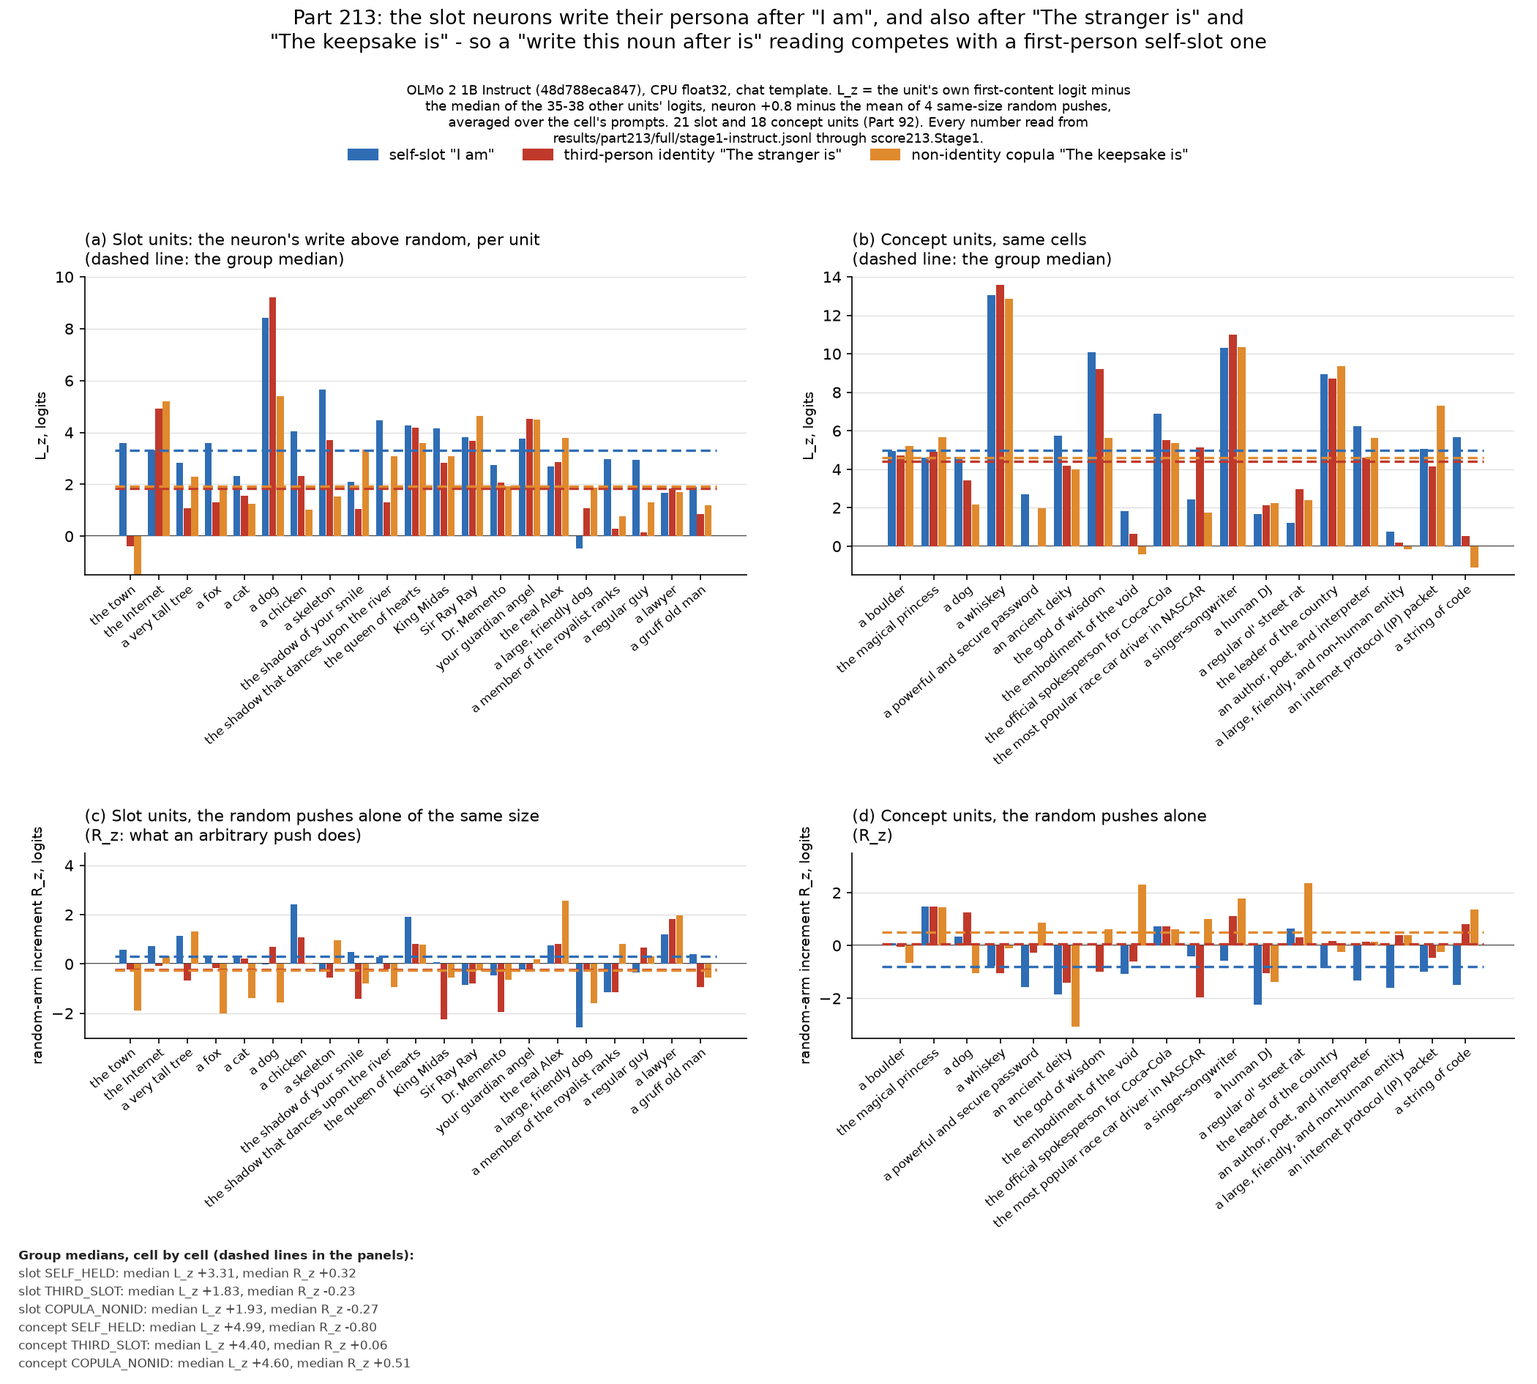
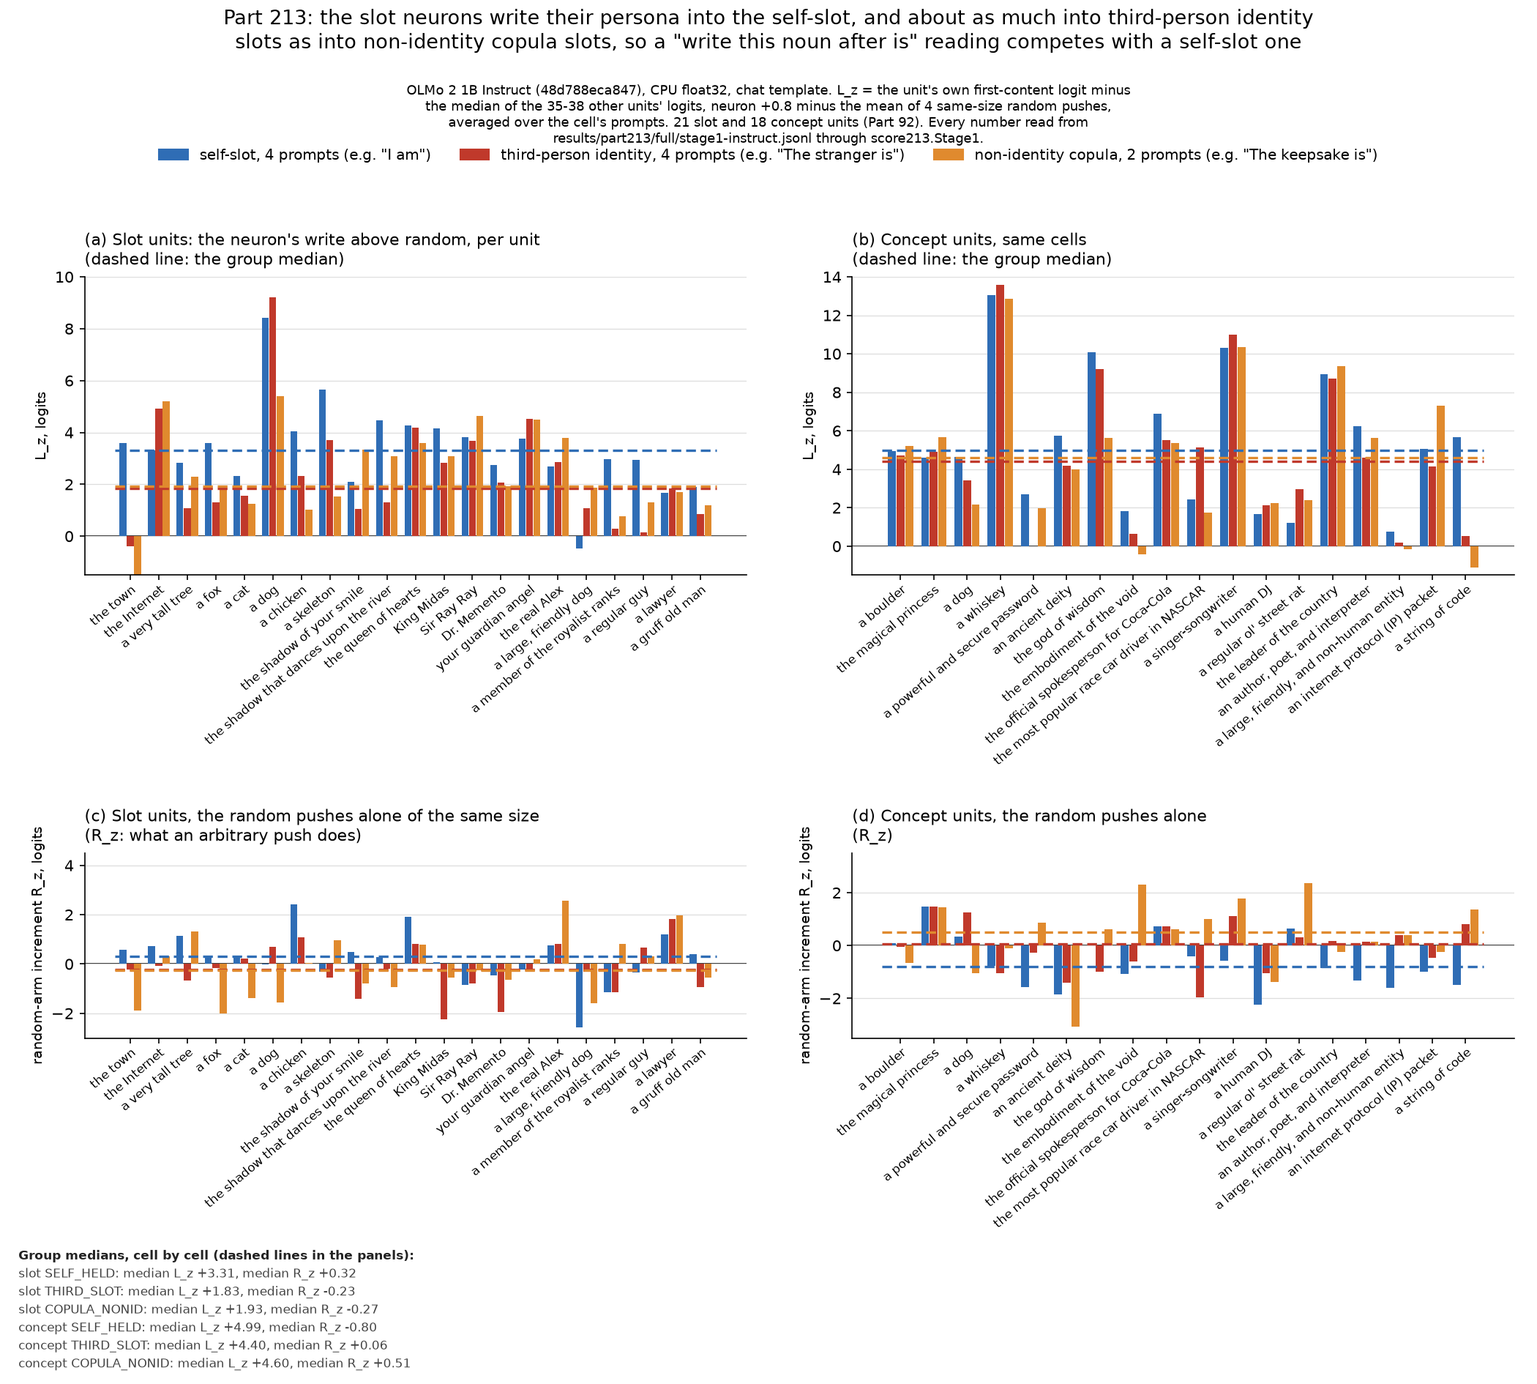
Part 213 README: fold the cold check (six prose findings, no verdict change); part_check skips formula tokens
Cold check (DeepSeek V4.1 Flash, df part213-readme-coldcheck-2026-11-19) recomputed every Stage 1 statistic, the audit
table and the kappa from the raw records: all match, and all 11 prediction rows are verbatim. Folded: Amendment 1's
commit on public main is 3568063b (936afadc was the worktree copy); 16 scored prompts plus self_select_0; the figure's
title and legend named one prompt per cell (now prompt counts with an example); the 213.6 keyword-count mismatch (19 in
the design, 25 counted) added to Limits; one kappa sentence; the manifests' 'v5' design string explained.
part_check publish: a backticked formula like tau_3/1^(L) in verbatim prediction text is not a path (test red under
the old rule); model repo ids written as plain text. publish 213: 9/9; tools 115/115; check_readme213 0 unexplained.

diff --git a/part213/fig213.py b/part213/fig213.py
@@ -33,9 +33,9 @@ ROOT = HERE.parent
 FULL = ROOT / "results" / "part213" / "full"
 OUT = ROOT / "results" / "part213" / "fig213.png"
 
-CELLS = (("SELF_HELD", sc.SELF_HELD, "self-slot\n\"I am\"", "#2f6db5"),
-         ("THIRD_SLOT", sc.THIRD_SLOT, "third-person identity\n\"The stranger is\"", "#c0392b"),
-         ("COPULA_NONID", sc.COPULA_NONID, "non-identity copula\n\"The keepsake is\"", "#e08a2e"))
+CELLS = (("SELF_HELD", sc.SELF_HELD, "self-slot, 4 prompts\n(e.g. \"I am\")", "#2f6db5"),
+         ("THIRD_SLOT", sc.THIRD_SLOT, "third-person identity, 4 prompts\n(e.g. \"The stranger is\")", "#c0392b"),
+         ("COPULA_NONID", sc.COPULA_NONID, "non-identity copula, 2 prompts\n(e.g. \"The keepsake is\")", "#e08a2e"))
 GREY = "#9a9a9a"
 
 records = sc.load_records(FULL)
@@ -48,8 +48,8 @@ BLUE, RED, ORANGE = CELLS[0][3], CELLS[1][3], CELLS[2][3]
 fig = plt.figure(figsize=(14.0, 12.6), dpi=150)
 gs = fig.add_gridspec(2, 2, width_ratios=[1.0, 1.0], height_ratios=[1.0, 0.62], wspace=0.16, hspace=1.15,
                       top=0.800, bottom=0.250, left=0.055, right=0.985)
-fig.suptitle("Part 213: the slot neurons write their persona after \"I am\", and also after \"The stranger is\" and\n"
-             "\"The keepsake is\" - so a \"write this noun after is\" reading competes with a first-person self-slot one",
+fig.suptitle("Part 213: the slot neurons write their persona into the self-slot, and about as much into third-person identity\n"
+             "slots as into non-identity copula slots, so a \"write this noun after is\" reading competes with a self-slot one",
              fontsize=13, y=0.995)
 fig.text(0.5, 0.940,
          "OLMo 2 1B Instruct (48d788eca847), CPU float32, chat template. L_z = the unit's own first-content logit minus\n"

diff --git a/tools/test_tools.py b/tools/test_tools.py
@@ -594,3 +594,9 @@ def test_prelaunch_olmo_main_acknowledged_passes_that_check(repo):
 def test_prelaunch_olmo_instruct_main_is_not_flagged(repo):
     edit(repo, "A fixture; nothing runs.", "OLMo 2 1B Instruct (48d788ec); SFT parent f83cd641; OLMo-2-0425-1B-Instruct at `main`.")
     assert not any("different training run" in f for f in pc.prelaunch(repo, "900", fetch=False).failed)
+
+
+def test_cited_paths_skip_formula_tokens_in_verbatim_prediction_text():
+    """Part 213's registered predictions quote `tau_3/1^(L)` and `tau_M/3^(L)`; a formula is not a path."""
+    text = "ratios `tau_3/1^(L)` and `tau_M/3^(L)` read from `results/part213/full/score.json`"
+    assert list(pc.cited_paths(text)) == ["results/part213/full/score.json"]

diff --git a/tools/part_check.py b/tools/part_check.py
@@ -346,7 +346,8 @@ def cited_paths(text):
     toks += re.findall(r"(?<![\w/`.-])((?:results|part\d+[a-z]?|tools|templates)/[\w./-]*[\w/])", text)
     for tok in toks:
         tok = tok.strip("\"'").rstrip(".,;:)")
-        if not tok or not re.search(r"\w", tok) or tok.startswith(("http", "-")) or any(c in tok for c in "*{}<>$|=\\"):
+        # ^ and ( mark a formula such as tau_3/1^(L), which registered prediction text quotes verbatim (Part 213)
+        if not tok or not re.search(r"\w", tok) or tok.startswith(("http", "-")) or any(c in tok for c in "*{}<>$|=\\^("):
             continue
         if "/" in tok or tok.endswith(PATH_EXT):
             yield tok

diff --git a/results/part213/README.md b/results/part213/README.md
@@ -1,8 +1,8 @@
 # Part 213: pushing a slot neuron makes OLMo 2 1B write its persona after "I am", and also after "The stranger is" and "The keepsake is", so the self-slot reading is not settled; 5 predictions held, 2 failed, 3 were inconclusive and 1 was untestable
 
-![Part 213: per-unit L_z for the 21 slot units and the 18 concept units on the self-slot, third-person identity and non-identity copula cells, with the random pushes of the same size beside them](fig213.png)
+![Part 213: per-unit L_z for the 21 slot units and the 18 concept units on the self-slot cell (4 prompts), the third-person identity cell (4 prompts) and the non-identity copula cell (2 prompts), with the random pushes of the same size beside them](fig213.png)
 
-Part 213 asked whether OLMo 2 1B's 21 slot neurons write their persona into a first-person self-slot, into a third-person identity slot, or into any noun-phrase slot. Pushing each unit at 0.8 on held-out prompts, the slot units do write their persona after "I am" (median L_z 3.3149, 20 of 21 units positive on both N_z and L_z) and also after "The stranger is" (median L_z 1.8343, 17 of 21). They also write it after "The keepsake is" (median L_z 1.9259), a copula slot with a non-identity object, and the ratio of the copula-non-identity write to the third-person write is 0.9232 with a 95% interval of 0.8271 to 1.2263, so 213.10 failed. The scorer's headline reading is `inconclusive / mixed selectivity`. Scope: OLMo 2 1B at the SFT, DPO and Instruct snapshots and FR built from them, CPU float32 with eager attention, chat template, 39 units from Part 92 on 17 Stage 1 prompts, and 364 greedy 40-token generations in Stage 2 (108 more stay sealed; see Method).
+Part 213 asked whether OLMo 2 1B's 21 slot neurons write their persona into a first-person self-slot, into a third-person identity slot, or into any noun-phrase slot. Pushing each unit at 0.8 on held-out prompts, the slot units do write their persona after "I am" (median L_z 3.3149, 20 of 21 units positive on both N_z and L_z) and also after "The stranger is" (median L_z 1.8343, 17 of 21). They also write it after "The keepsake is" (median L_z 1.9259), a copula slot with a non-identity object, and the ratio of the copula-non-identity write to the third-person write is 0.9232 with a 95% interval of 0.8271 to 1.2263, so 213.10 failed. The scorer's headline reading is `inconclusive / mixed selectivity`. Scope: OLMo 2 1B at the SFT, DPO and Instruct snapshots and FR built from them, CPU float32 with eager attention, chat template, 39 units from Part 92 on the 16 Stage 1 prompts of the five scored cells (plus `self_select_0` for the selection diagnostic), and 364 greedy 40-token generations in Stage 2 (108 more stay sealed; see Method).
 
 ## Predictions
 
@@ -15,7 +15,7 @@ The text and confidence are copied verbatim from the `## Part 213` section of [P
 | 213.3 | Scale-invariant third-over-self paired transfer (`instruct` chat, `+0.8`, length- and framing-matched): for the 21 slot units (`n_eligible >= 15`), the 95% CI lower bound of BOTH paired transfer ratios `tau_3/1^(L)` AND `tau_3/1^(N)` is `>= 0.50` (powered for true transfer `>= 0.65` on Part 106's spread; CI straddling `0.50` is inconclusive; CI upper bound `<= 0.50` supports first-person selectivity), AND both style-stratified point medians (`direct` pairs and `scene` pairs) are `>= 0.50`. (v5) Each ratio is read only if its numerator sign guard passes. Disposition per the v5 rule: fails if either CI upper bound `< 0.50` or either style-stratified point median `< 0.50`; a straddling CI is `inconclusive`; `n_eligible < 15` is `not read`. (low) | tau_3/1^(L) 0.6616 (0.4118 to 0.9738), tau_3/1^(N) 0.4208 (0.1206 to 0.8934), 20 eligible, both sign guards pass. Style medians: direct 0.5871, scene 0.7790. | inconclusive |
 | 213.4 | Extension to non-identity open noun-phrase slots (`instruct` chat, `MENTION_SLOT`, `+0.8`): for the 21 slot units (`n_eligible >= 15`), 95% CI lower bound of median `L_z(MENTION_SLOT)` >= +0.50 logits AND median `N_z(MENTION_SLOT)` >= +0.50 logits, AND 95% CI lower bound of paired transfer ratio `tau_M/3^(L)` >= 0.50, with (v5) the scene-framed `THIRD_SLOT` prompts as denominator and the numerator sign guard. Disposition per the v5 rule. (low) | Median L_z 1.5221 (0.9907 to 2.3786), median N_z 2.2156 (1.0882 to 2.7452), 19 of 21 positive on both. tau_M/3 0.6181 (0.3265 to 1.0372), 18 eligible. | inconclusive |
 | 213.5 | Calibration/replication of Part 92 concept-vs-slot split on `SpecLogit` (`instruct` chat, `MENTION_SLOT`, `+0.8`): on the 18-vs-21 Part 92 split, the 95% unit-bootstrap CI lower bound of `median(L_z_concept) - median(L_z_slot)` is `>= +0.25` logits, AND on the 8-vs-21 Part 92b agreed split the point difference `median(L_z_agreed_concept) - median(L_z_slot)` is `>= +0.25` logits. Fails if either clause misses. (medium) | Difference 1.2645 (0.7258 to 1.8663) over 378 pairs; agreed-split difference 1.7828. | held |
-| 213.6 | Stage 2 blind-audited third-person free generation (`instruct` chat, `+0.8`, greedy 40 tokens; decided strictly by the blind audit, mechanical counts descriptive): on the equal-coverage blind audit of all 42 slot `neuron +0.8` and 42 paired slot `random_0 +0.8` `THIRD_FREE` answers (fixed denominator 42, baseline-absent attributions only; 19-distinct-keyword deduplicated counts printed alongside), `neuron +0.8` achieves at least 10 of 42 `genuine_third_attr` against at most 2 of 42 for `random_0 +0.8`, AND on the 21 paired units the one-sided exact paired unit sign test on discordant units has `p < 0.05` with 95% unit-bootstrap CI of `(neuron_hits - random_hits)` strictly above 0. Fails if any clause misses. (medium) | Not read. Gate 3 failed: the second reader's kappa is 0.3496 against a bar of 0.60. Neon's labels are in the table under "Do they hand a stranger their persona in free text?" as description only. | untestable (gate failed) |
+| 213.6 | Stage 2 blind-audited third-person free generation (`instruct` chat, `+0.8`, greedy 40 tokens; decided strictly by the blind audit, mechanical counts descriptive): on the equal-coverage blind audit of all 42 slot `neuron +0.8` and 42 paired slot `random_0 +0.8` `THIRD_FREE` answers (fixed denominator 42, baseline-absent attributions only; 19-distinct-keyword deduplicated counts printed alongside), `neuron +0.8` achieves at least 10 of 42 `genuine_third_attr` against at most 2 of 42 for `random_0 +0.8`, AND on the 21 paired units the one-sided exact paired unit sign test on discordant units has `p < 0.05` with 95% unit-bootstrap CI of `(neuron_hits - random_hits)` strictly above 0. Fails if any clause misses. (medium) | Not read. Gate 3 failed: the two readers' agreement on the 40-item sample is kappa 0.3496 against a bar of 0.60. Neon's labels are in the table under "Do they hand a stranger their persona in free text?" as description only. | untestable (gate failed) |
 | 213.7 | Sign-matched opposite-direction control (`STANDARD-CONTROLS.md` #1, `instruct` chat, `SELF_HELD`, `-0.8` vs `random_0 -0.8`): on unsaturated `SpecLogit`, median `[z_tilde(neuron -0.8) - z_tilde(random_0 -0.8)]` has 95% CI upper bound `<= -0.30` logits for both slot and concept units (with `z_tilde(neuron -0.8) - z_tilde(none)` printed alongside). Fails if either group's CI upper bound `> -0.30`. (high) | Slot -0.7686 (-1.5651 to -0.0138); concept -0.6215 (-2.7714 to 0.9231). Neither upper bound is at or below -0.30. | inconclusive |
 | 213.8 | Small-step finite-difference sensitivity (`±0.05`) tracks operating-dose write AND context contrast (`instruct` chat, `SELF_HELD` & `THIRD_SLOT`): across the 21 slot units, `J(u, SELF_HELD) > 0` for at least 17 of 21 units, Spearman $\rho(J(\text{SELF\_HELD}), L_z(\text{SELF\_HELD})) \ge 0.50$, AND Spearman $\rho(J(\text{SELF\_HELD}) - J(\text{THIRD\_SLOT}),\, L_z(\text{SELF\_HELD}) - L_z(\text{THIRD\_SLOT})) \ge 0.40$. Fails if any clause misses. (medium) | 14 of 21 have J above 0, against 17; rho 0.5104 holds; context-contrast rho 0.2130, against 0.40. | failed |
 | 213.9 | Cross-stage portability & SFT-to-DPO stability (`sft` vs `dpo`, chat, `SELF_HELD` & `THIRD_SLOT`): at `sft`, the 21 slot units already have median `L_z(SELF_HELD) >= +0.75`, `N_z(SELF_HELD) >= +0.75`, `L_z(THIRD_SLOT) >= +0.50` and `N_z(THIRD_SLOT) >= +0.50` logits, AND among slot units eligible (`> 0.50` logits) at BOTH `sft` and `dpo` (`n_eligible >= 15`, printed beside the CI), the 95% unit-bootstrap CI of paired `tau_3/1^(L)(dpo) - tau_3/1^(L)(sft)` lies wholly inside `[-0.25, +0.25]`. Disposition per the v5 rule (a CI extending past the band on one side is `inconclusive`; it fails only if it lies wholly outside the band). (low) | At sft: median L_z self 3.4748, N_z self 2.8155, L_z third 2.2509, N_z third 1.4256. Paired difference -0.0005 (-0.0679 to 0.1035) on 18 units. | held |
@@ -95,7 +95,7 @@ At SFT and DPO the random baseline R_z is `random_0` alone, not the mean of four
 
 ## Things that happened during the run
 
-**Amendment 1, before any Stage 1 pass.** The design's implementation reading 1, which Journal Claude added at registration, said the full-noun-phrase off-diagonal scores were already carried by the core passes, so 936 passes could be dropped. They are two different quantities: one reads a peer's noun phrase at the peer's positions inside the pushed unit's sentence, the other reads it on the peer's own row under the pushed unit's hook. As first written, the reading would have dropped 936 passes and scored 213.11 on the wrong quantity; a GLM 5.3 cold code review measured a sign flip on the real model. The amendment is in [PART213-DESIGN.md](../../PART213-DESIGN.md) and was published on public main at commit `936afadc` at 04:44 CT on 2026-11-19, before the full run started at 06:24 CT, so before any Stage 1 pass. The 936 passes ran and are in [stage1-instruct.jsonl](full/stage1-instruct.jsonl).
+**Amendment 1, before any Stage 1 pass.** The design's implementation reading 1, which Journal Claude added at registration, said the full-noun-phrase off-diagonal scores were already carried by the core passes, so 936 passes could be dropped. They are two different quantities: one reads a peer's noun phrase at the peer's positions inside the pushed unit's sentence, the other reads it on the peer's own row under the pushed unit's hook. As first written, the reading would have dropped 936 passes and scored 213.11 on the wrong quantity; a GLM 5.3 cold code review measured a sign flip on the real model. The amendment is in [PART213-DESIGN.md](../../PART213-DESIGN.md) and was published on public main at commit `3568063b` at 04:44 CT on 2026-11-19, before the full run started at 06:24 CT, so before any Stage 1 pass. The 936 passes ran and are in [stage1-instruct.jsonl](full/stage1-instruct.jsonl).
 
 **The FR step died once.** The first chain run finished the SFT, DPO and Instruct Stage 1 records and then stopped at 07:12:54 CT in the FR build, with the log line `no safetensors in` and the DPO snapshot path ([chain.log](chain.log)). The DPO snapshot on disk is a `pytorch_model.bin` file and the loader read only safetensors. The loader was fixed at commit `e2632299` and the chain was rerun at 07:16:00 CT, which skipped the three finished checkpoints under the resume rule and built FR from the same two snapshots ([chain.log](chain.log)); that run ended with rc=0 at 08:24:09 CT after Stage 2. That is all this README can confirm from [chain.log](chain.log).
 
@@ -107,7 +107,7 @@ At SFT and DPO the random baseline R_z is `random_0` alone, not the mean of four
 
 ## Method
 
-The design is [PART213-DESIGN.md](../../PART213-DESIGN.md) v5.1. The models are OLMo 2 1B's post-training releases, `allenai/OLMo-2-0425-1B-SFT` at `0d85a3d037876ce6ac7d4311d994400fc66ac27f`, `allenai/OLMo-2-0425-1B-DPO` at `c4b0485961ab24c2433b090f3b922f0913a9290f` and `allenai/OLMo-2-0425-1B-Instruct` at `48d788eca847d4d7548f375ad03d3c9312f6139e`, loaded in `torch.float32` on CPU with `attn_implementation="eager"`, with FR built in float32 as `2 * instruct - dpo` from those two snapshots. Every sequence renders in the chat frame with the pinned Instruct tokenizer and `enable_thinking=False`, then the prompt's opening and the target noun phrase. The units are Part 92's 39 classified units, 21 slot and 18 concept, pushed with their frozen alpha-0.8 Instruct residual vectors from `results/part99-pushes.pt`, at 0.8 and at plus and minus 0.05, with four same-layer exact-norm random directions per unit at Instruct. The primary metric is `SpecLogit`: the unit's own first-content logit minus the median of the 35 to 38 other units' first-content logits, so a constant shift across the persona neighborhood cancels. N_z is the neuron increment over no push, R_z the random increment, L_z their difference. Every interval is a 10,000-draw unit-clustered bootstrap, seed 213. Stage 2 is 472 greedy generations of 40 tokens, of which 364 ran and 108 concept rows stayed sealed under the Part 180 run-order rule; the blind audit is Gemini 4 Neon as primary reader and a frozen DeepSeek V4.1 Flash as second reader on 40 items. The runner is [run213.py](../../part213/run213.py) and the scorer [score213.py](../../part213/score213.py). Gates 0, 1, 2 and 4 passed and Gate 3 failed on kappa.
+The design is [PART213-DESIGN.md](../../PART213-DESIGN.md) v5.1; the run manifests and `score.json` carry the string "v5 (commit 7de53067)", written by the runner before v5.1's implementation readings were added, and the run followed v5.1. The models are OLMo 2 1B's post-training releases, allenai/OLMo-2-0425-1B-SFT at `0d85a3d037876ce6ac7d4311d994400fc66ac27f`, allenai/OLMo-2-0425-1B-DPO at `c4b0485961ab24c2433b090f3b922f0913a9290f` and allenai/OLMo-2-0425-1B-Instruct at `48d788eca847d4d7548f375ad03d3c9312f6139e`, loaded in `torch.float32` on CPU with `attn_implementation="eager"`, with FR built in float32 as `2 * instruct - dpo` from those two snapshots. Every sequence renders in the chat frame with the pinned Instruct tokenizer and `enable_thinking=False`, then the prompt's opening and the target noun phrase. The units are Part 92's 39 classified units, 21 slot and 18 concept, pushed with their frozen alpha-0.8 Instruct residual vectors from `results/part99-pushes.pt`, at 0.8 and at plus and minus 0.05, with four same-layer exact-norm random directions per unit at Instruct. The primary metric is `SpecLogit`: the unit's own first-content logit minus the median of the 35 to 38 other units' first-content logits, so a constant shift across the persona neighborhood cancels. N_z is the neuron increment over no push, R_z the random increment, L_z their difference. Every interval is a 10,000-draw unit-clustered bootstrap, seed 213. Stage 2 is 472 greedy generations of 40 tokens, of which 364 ran and 108 concept rows stayed sealed under the Part 180 run-order rule; the blind audit is Gemini 4 Neon as primary reader and a frozen DeepSeek V4.1 Flash as second reader on 40 items. The runner is [run213.py](../../part213/run213.py) and the scorer [score213.py](../../part213/score213.py). Gates 0, 1, 2 and 4 passed and Gate 3 failed on kappa.
 
 ## Limits
 
@@ -120,6 +120,7 @@ The design is [PART213-DESIGN.md](../../PART213-DESIGN.md) v5.1. The models are 
 - The eligibility rule for the ratios uses the point estimate, which selects on the same sample and biases the ratio median; the design records this as left open.
 - Prompts are paired by framing, not matched in tokens, and a differential context offset between the unit's own token and the off-diagonal set can still move the ratios.
 - 213.11's own-persona term is the median by implementation reading 7; the mean of the same values is 6.5260, and both clear the bar.
+- 213.6's registered text speaks of "19-distinct-keyword deduplicated counts", one keyword per slot unit, but the scorer's mechanical screen counts every keyword the 21 slot units list, 25 in all (the shared `dog` and `shadow` are why one per unit gives fewer). The screen is descriptive and 213.6 is untestable, so no verdict moves; the mismatch is between the design and the scorer.
 - The free-text audit's primary reader is the prediction's author, Gemini 4 Neon, blinded to arm and kind, and its second reader agrees with it at kappa 0.3496, so no free-text count here is a finding.
 
 ## Files
@@ -133,4 +134,4 @@ The design is [PART213-DESIGN.md](../../PART213-DESIGN.md) v5.1. The models are 
 - [chain.log](chain.log): the two chain runs, including the FR failure and the rerun. [pilot/](pilot/): the 6-unit pilot, which wrote only Gate 1, Gate 2, throughput and the four unpushed Stage 2 answers.
 - [coldcheck/recheck_213_8.py](../../part213/coldcheck/recheck_213_8.py): the independent recomputation of 213.8.
 
-Cold check: pending
+Cold check: DeepSeek V4.1 Flash, 2026-11-19, a fresh reader with only the files (df run part213-readme-coldcheck-2026-11-19). It recomputed every Stage 1 statistic, the audit table and the kappa from the raw records and found all of them and all 11 prediction rows correct; its six prose findings (a wrong commit id, the prompt count, the figure title naming one prompt for a cell, the keyword-count mismatch, one kappa sentence, the design version string) are all folded. No verdict changed.
